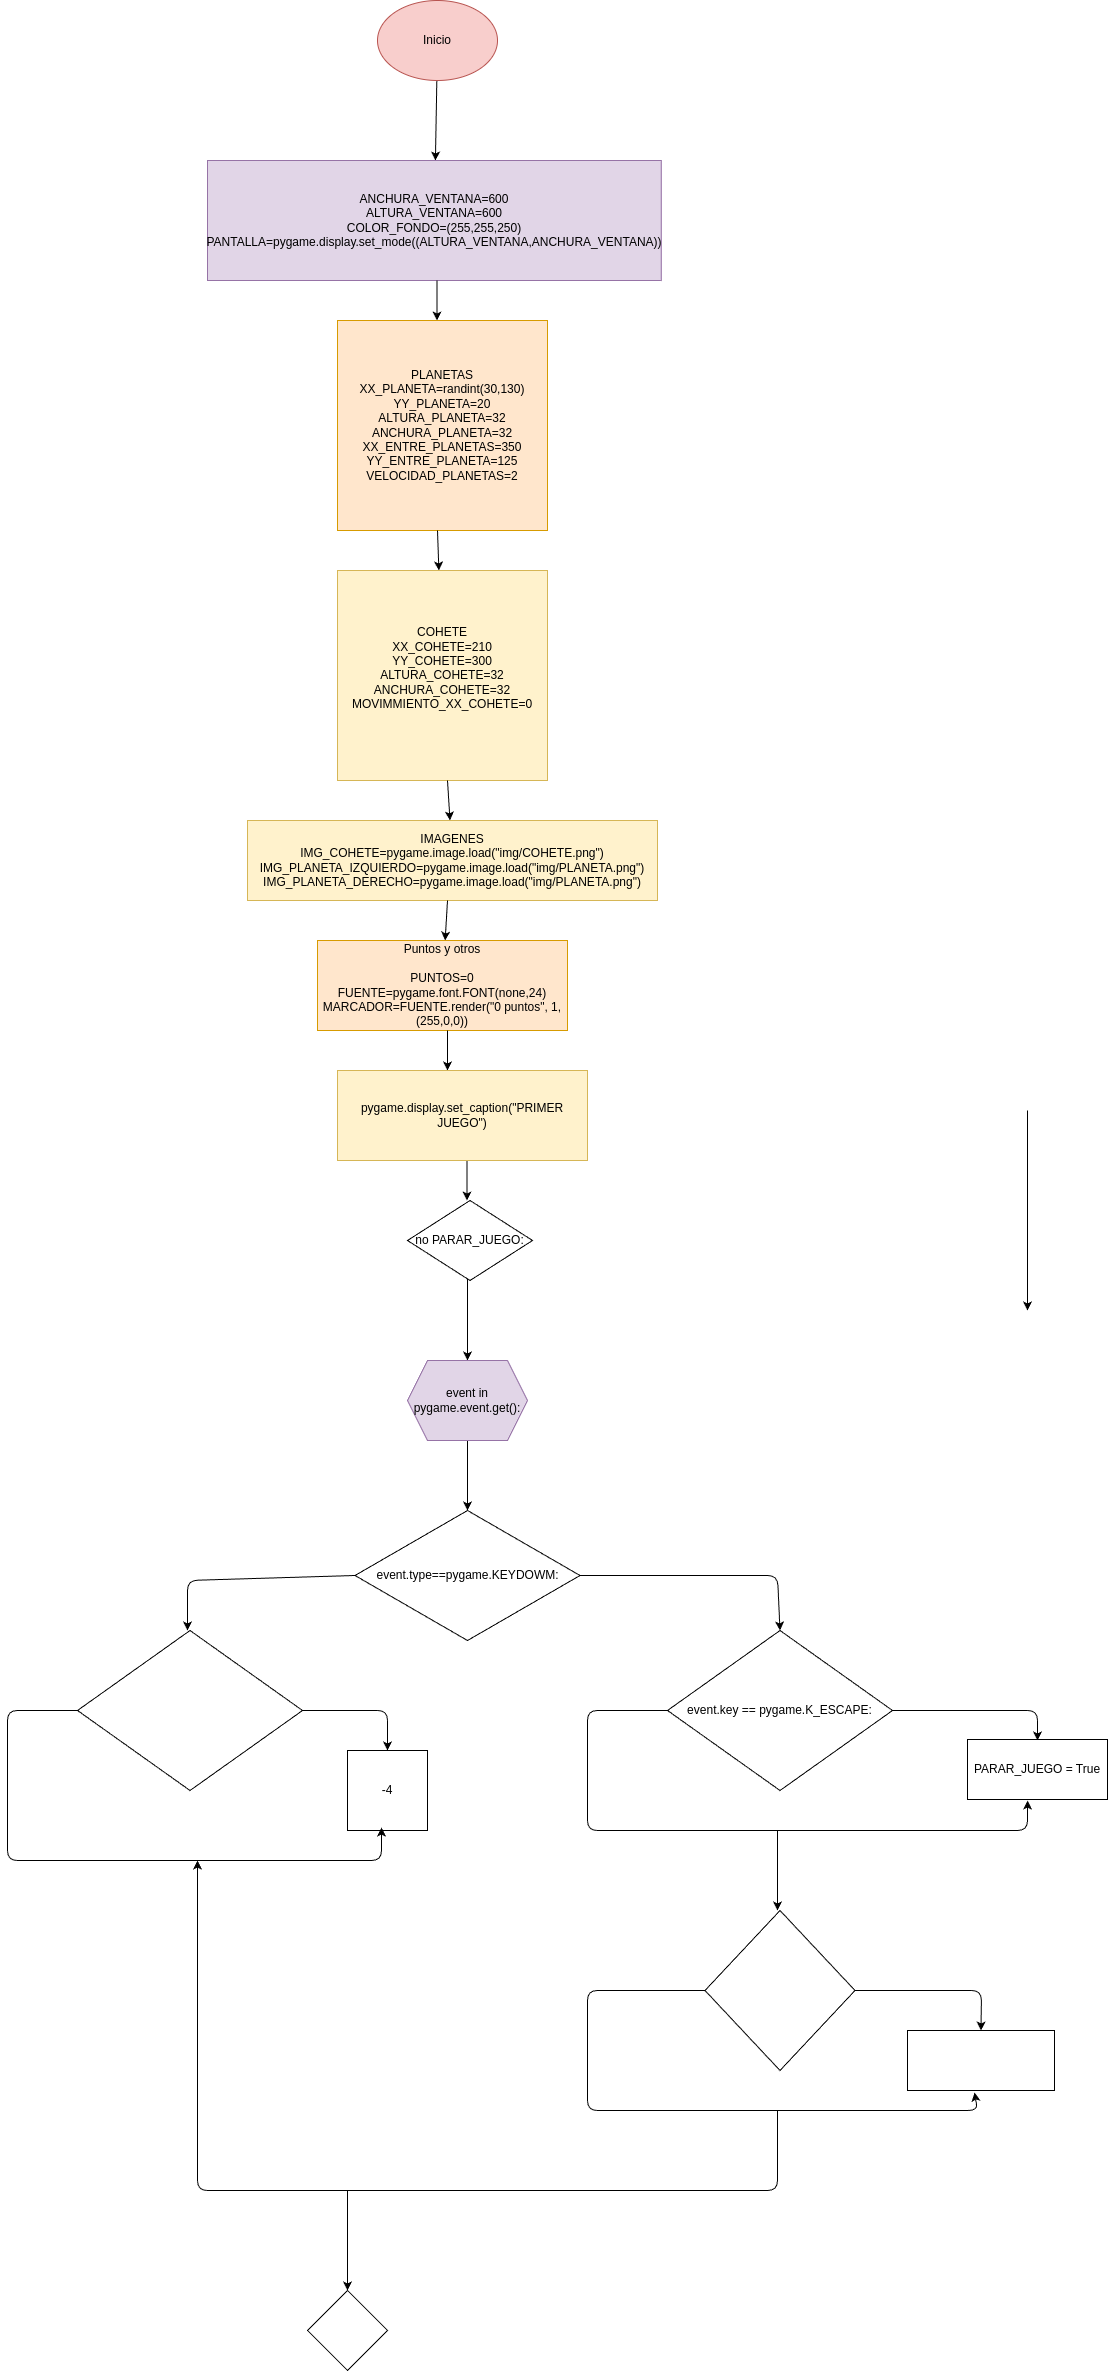
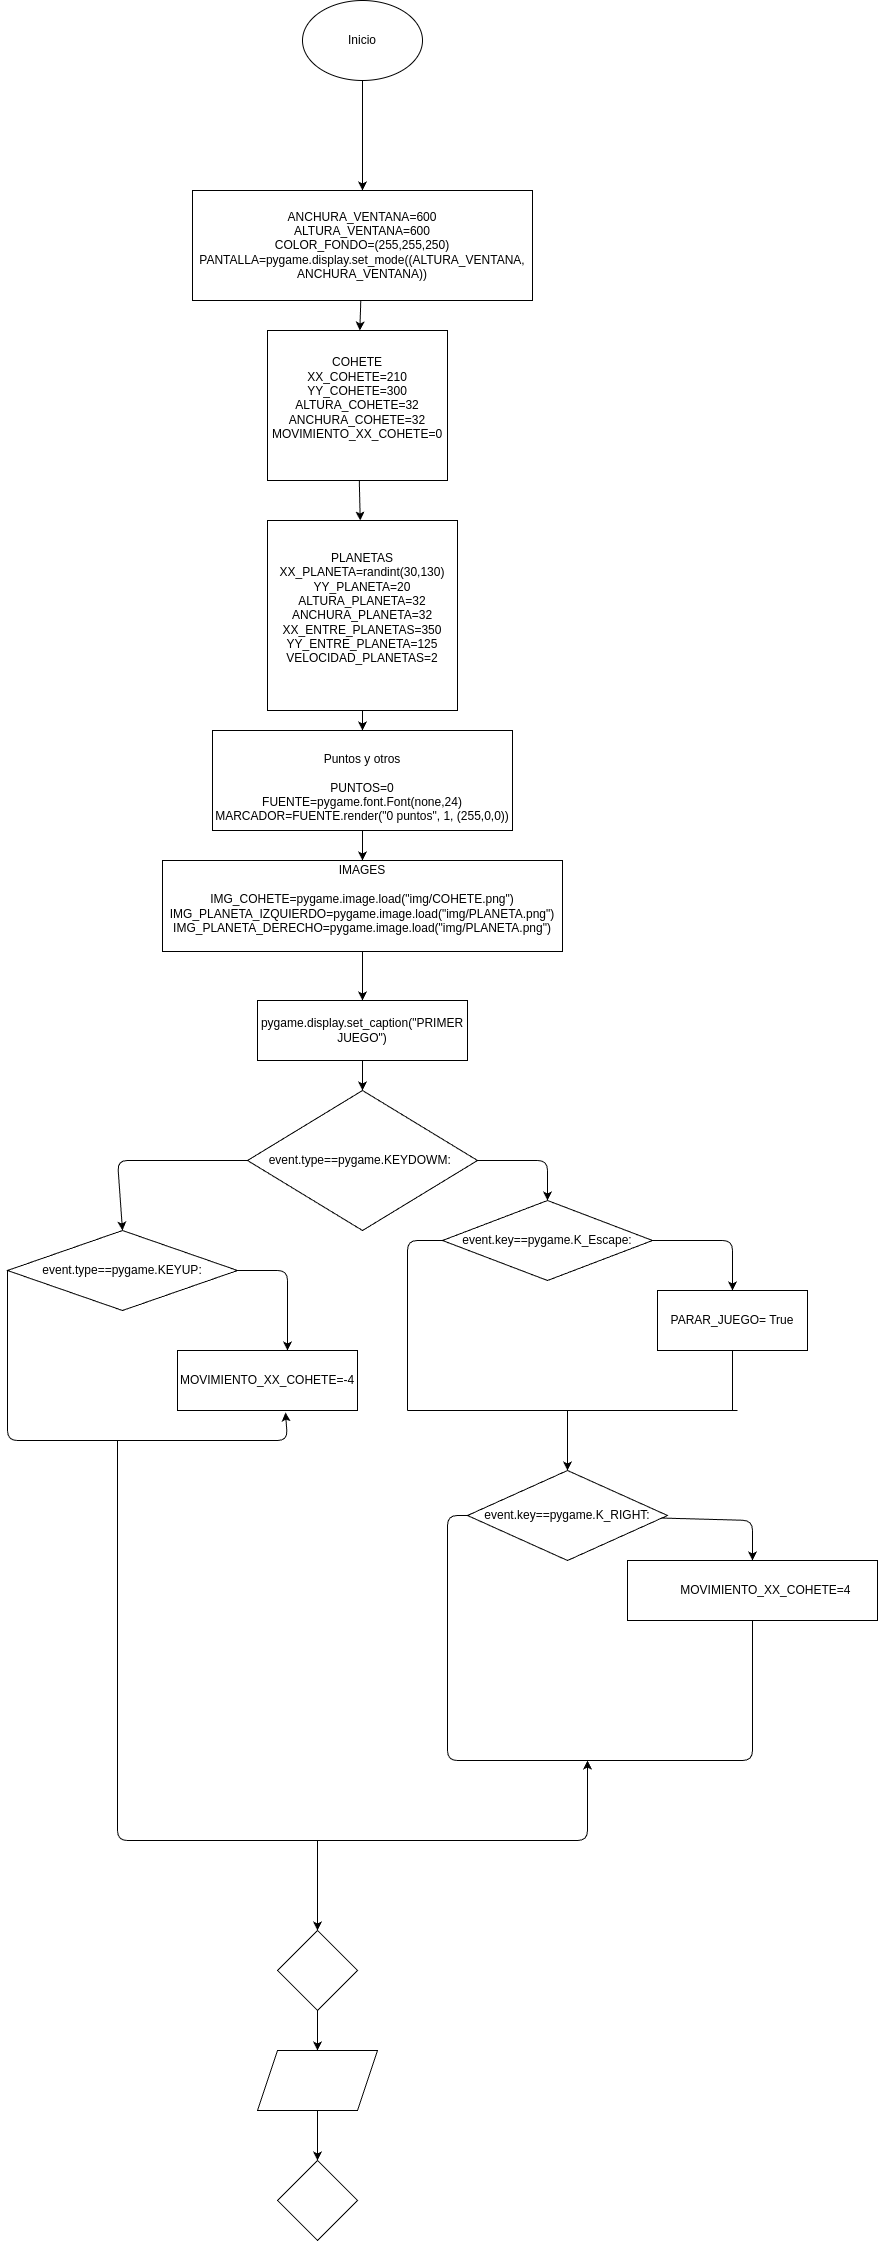
up

diff --git a/README.md b/README.md
@@ -1,1 +1,55 @@
 # Bimestral_1
+# Bimestral_1
+
+## Para poder empezar
+el import pygame es un linea que nos habilita la biblioteca Pygame.
+from random import randint: Esta linea importa la función random esta función se usa para generar números enteros aleatorios dentro de el rango establecido.
+Aqui se inicia pygame y se empiezan a crear las especificaciones.
+
+- ```pygame.init():```inicializa todos los módulos importados de Pygame.
+
+- ALTURA_VENTANA = 600: Define una constante para la altura de la ventana.
+- COLOR_FONDO = (255, 255, 250): Define los colores del fondo de la ventana usando valores RGB (rojo, verde, azul).
+- PANTALLA = ```pygame.display.set_mode((ALTURA_VENTANA))```
+- ANCHURA_VENTANA)): Crea la ventana del juego con unas dimensiones especificas que se extraen de ALTURA_VENTANA y ANCHURA_VENTANA.
+## Las variables son:
+
+- PARAR_JUEGO = False:Controla el bucle principal del juego y cuando es True el juego termina.
+XX_COHETE = 210, YY_COHETE = 300: Posición inicial del cohete en la ventana.
+- ALTURA_COHETE = 88, ANCHURA_COHETE = 175: Son las dimensiones de el cohete.
+- MOVIMIENTO_XX_COHETE = 0: Es la velocidad del movimiento del cohete en el eje X.
+- XX_PLANETA = randint(30, 130), YY_PLANETA = 20: Seria cmo la posición inicial del primer planeta.
+- ALTURA_PLANETA = 111, ANCHURA_PLANETA = 80: Son las dimensiones de toos los planetas.
+- XX_ENTRE_PLANETAS = 350, YY_ENTRE_PLANETA = 125: Es la distancia entre los dos planetas.
+- VELOCIDAD_PLANETAS = 2: Es la velocidad de descenso de los planetas.
+- PUNTOS = 0: Inicializa la puntuación del jugador.
+- FUENTE = pygame.font.Font(None, 24): Crea como un objeto fuente para mostrar el texto de la puntuación.
+- MARCADOR = FUENTE.render("0 puntos", 1, (255, 0, 0)): Renderiza el texto inicial de la puntuación.
+
+## Para cargar las imagnes
+
+- ```IMG_COHETE = pygame.image.load("img/COHETE.png"):``` la imagen del cohete.
+- ```IMG_PLANETA_IZQUIERDO = pygame.image.load("img/PLANETA.png"):``` Carga la imagen del planeta.
+- ```IMG_PLANETA_DERECHO = pygame.image.load("img/PLANETA.png"):``` Carga la imagen del planeta.
+- Se pone un titulo a la ventana
+
+```pygame.display.set_caption("PRIMER JUEGO"):``` Establece el título de la ventana del juego.
+# Bucle principal del juego:
+
+- ```while not PARAR_JUEGO:``` Este bucle se ejecuta hasta que PARAR_JUEGO sea True.
+- ```for event in pygame.event.get():``` Itera sobre todos los eventos que han ocurrido.
+- ```if event.type == pygame.KEYDOWN:``` Comprueba si si se ha presionado una tecla.
+- ```if event.key == pygame.K_ESCAPE:``` Si es la tecla escape pues termina el juego.
+- ```if event.key == pygame.K_RIGHT:``` Si es la flecha derecha entonces mueve el cohete a la derecha.
+```elif event.type == pygame.KEYUP:```Comprueba si se ha soltado una tecla.
+-MOVIMIENTO_XX_COHETE = -4: Mueve el cohete a la izquierda.
+- ALTURA_VENTANA:: Termina el juego si el cohete se sale de la visibilidad de la pantalla.
+- PANTALLA.fill(COLOR_FONDO): Rellena la pantalla con el color de fondo previamente seleccionado.
+- PANTALLA.blit(...): Dibuja las imágenes de los planetas y el cohete en la pantalla.
+
+- VELOCIDAD_PLANETAS: Mueve los planetas en direccion hacia abajo.
+```if YY_PLANETA > ANCHURA_VENTANA:``` Si los planetas llegan al final, reinicia su posición y aumenta la puntuación.
+Sección de colisiones: Calcula las áreas de colisión de los planetas y el cohete, y termina el juego si hay una colisión.
+XX_COHETE = XX_COHETE + MOVIMIENTO_XX_COHETE: Actualiza la posición del cohete.
+- PANTALLA.blit(MARCADOR, (20, 580)): Hace la ilustracion de la puntuación en la pantalla.
+pygame.display.update(): Actualiza la pantalla para mostrar los cambios a medida que corre el juego.
